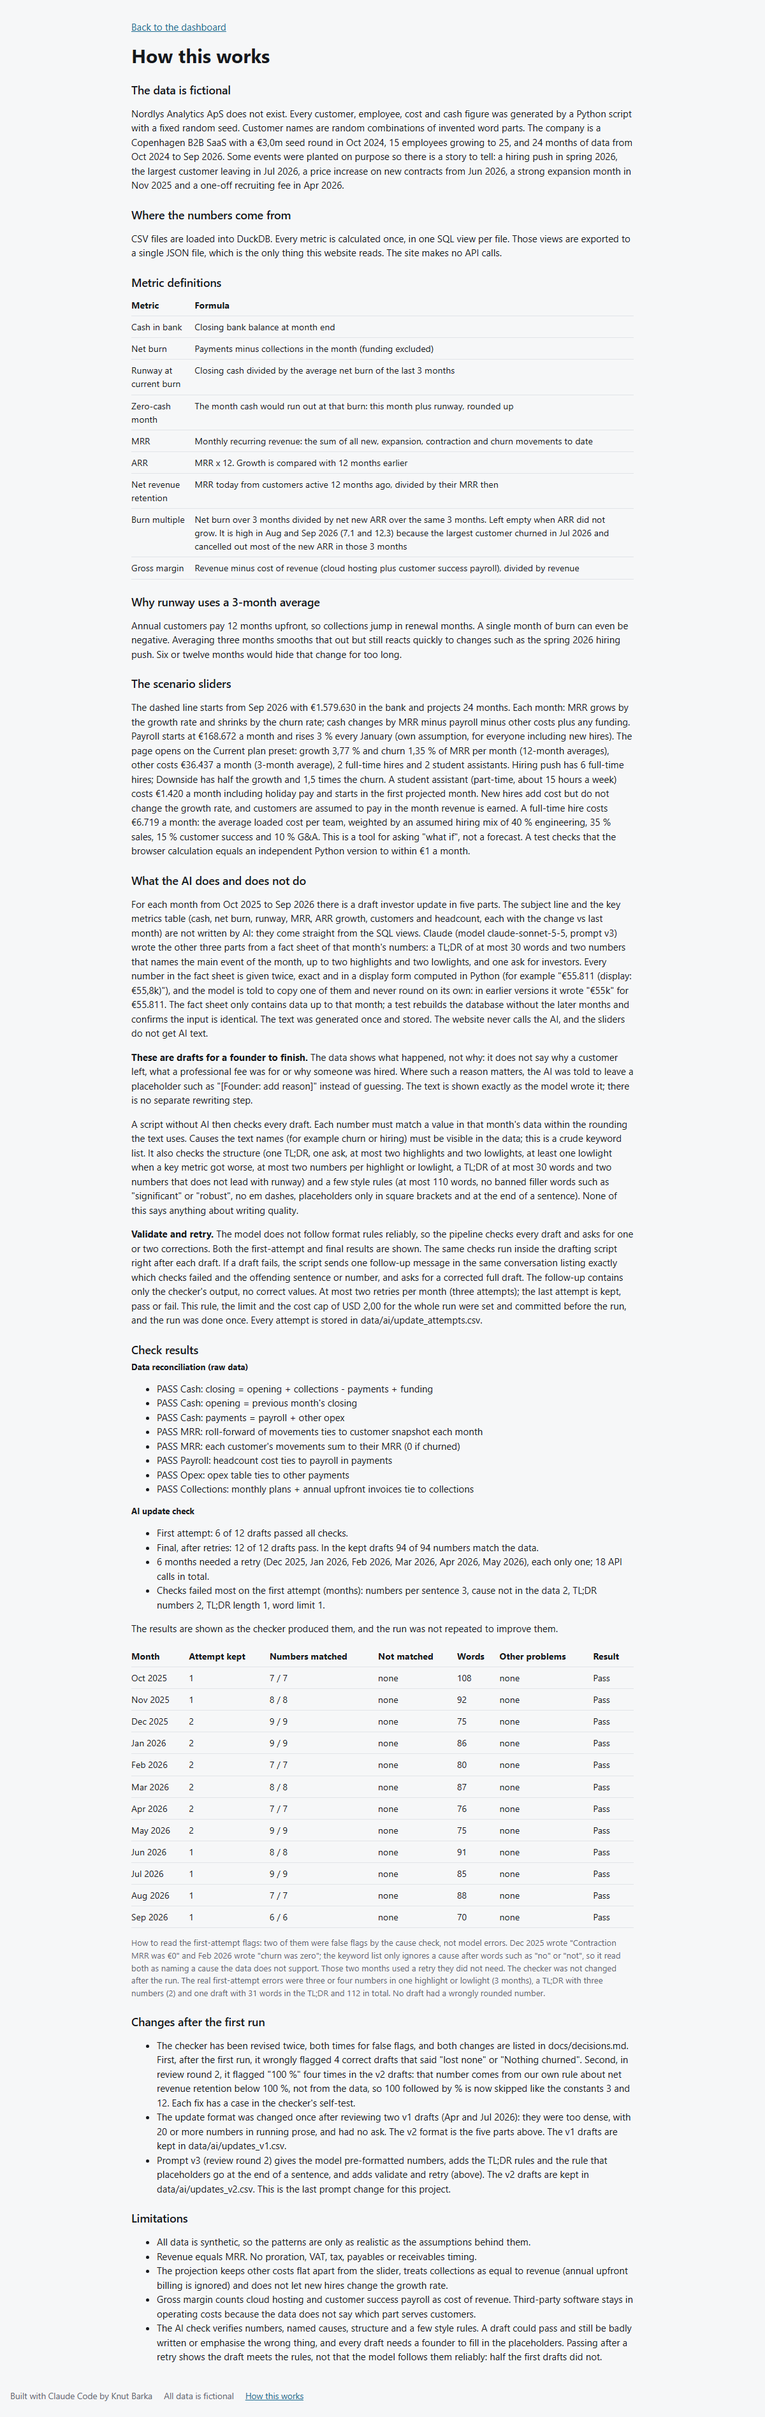
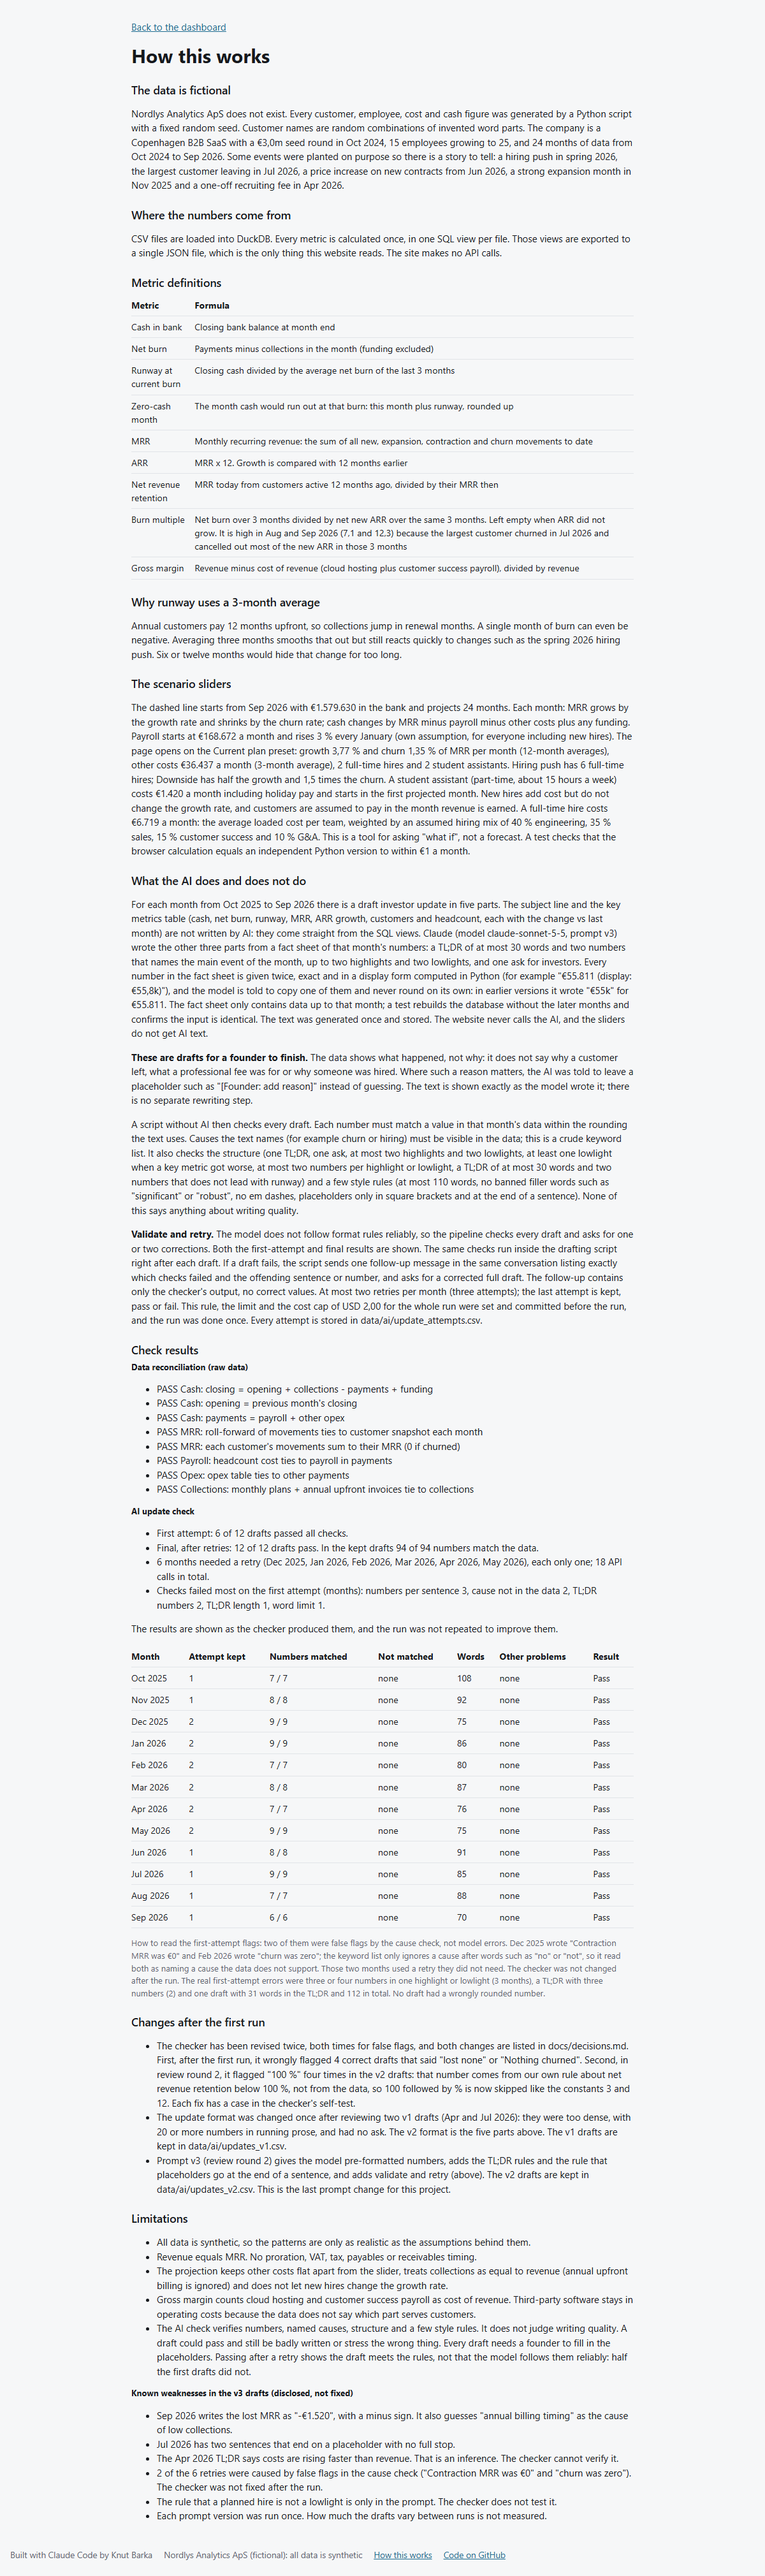
A7: QA in headless Edge (keyboard focus ring, no console errors, fictional label on every page), screenshots retaken

Changed region(s): [[0.1542, 0.0, 0.8325, 0.996]]

diff --git a/web/app/globals.css b/web/app/globals.css
@@ -108,6 +108,9 @@ mark.ph { background: var(--accent-soft); color: var(--text); border-radius: 3px
 .method th, .method td { text-align: left; border-bottom: 1px solid var(--border); padding: 6px 8px 6px 0; vertical-align: top; }
 .table-scroll { overflow-x: auto; }
 
+/* Keyboard focus: a clear ring on every control, in both themes. */
+:focus-visible { outline: 2px solid var(--accent); outline-offset: 2px; }
+
 .footer {
   max-width: 1200px; margin: 8px auto 24px; padding: 0 16px;
   display: flex; flex-wrap: wrap; gap: 6px 18px; color: var(--muted); font-size: 0.85rem;

diff --git a/web/app/layout.tsx b/web/app/layout.tsx
@@ -27,7 +27,7 @@ export default function RootLayout({ children }: { children: React.ReactNode }) 
         {children}
         <footer className="footer">
           <span>Built with Claude Code by Knut Barka</span>
-          <span>All data is fictional</span>
+          <span>Nordlys Analytics ApS (fictional): all data is synthetic</span>
           <Link href="/method/">How this works</Link>
           <a href="https://github.com/knbarka-beep/startup-runway">Code on GitHub</a>
         </footer>

diff --git a/docs/decisions.md b/docs/decisions.md
@@ -126,3 +126,6 @@ Every choice made during the unattended first build, as a list: what, why, and t
 92. **Link preview.** The page has a title, a description and Open Graph and Twitter tags. The preview image is `web/app/opengraph-image.png`, the top of `docs/screenshots/desktop-light.png` cropped and scaled to 1.200 x 630 px once with Pillow. It is not retaken by `screenshots.mjs`; if the layout changes, crop it again. Next.js fills in the full image URL on Vercel from the production domain.
 93. **Footer links to the code** at github.com/knbarka-beep/startup-runway.
 94. **Data flow run for this round without step 5.** `write_updates.py` was not run at all, because this run makes no API calls and running it without the key would still rewrite the prompt files. `check_updates.py` ran: 12 of 12 pass, 94 of 94 numbers match. `data/raw/` came out unchanged. `data/check/scenario_python.json` changed only in the last digit of some floats.
+95. **Visible focus ring.** The site relied on the browser's default ring, which is thin. A 2 px ring in the accent colour now shows on every control that has keyboard focus (`:focus-visible`), in both themes.
+96. **"(fictional)" on every page via the footer**, which now reads "Nordlys Analytics ApS (fictional): all data is synthetic". The dashboard heading already had it. The How this works page and the 404 page now show it too.
+97. **QA checks added to `scripts/screenshots.mjs`:** "(fictional)" visible on both pages, Tab reaches every preset button, Reset and every slider with a focus ring of at least 2 px, and no console errors from the site's own scripts. Headless Edge injects a script of its own that throws "AssistantLoadState has already been declared". That error does not come from the site (the text is not in `web/out/`), so the check skips errors from outside the site and prints them. Alternative: a separate QA script, rejected to keep one place for browser checks.
